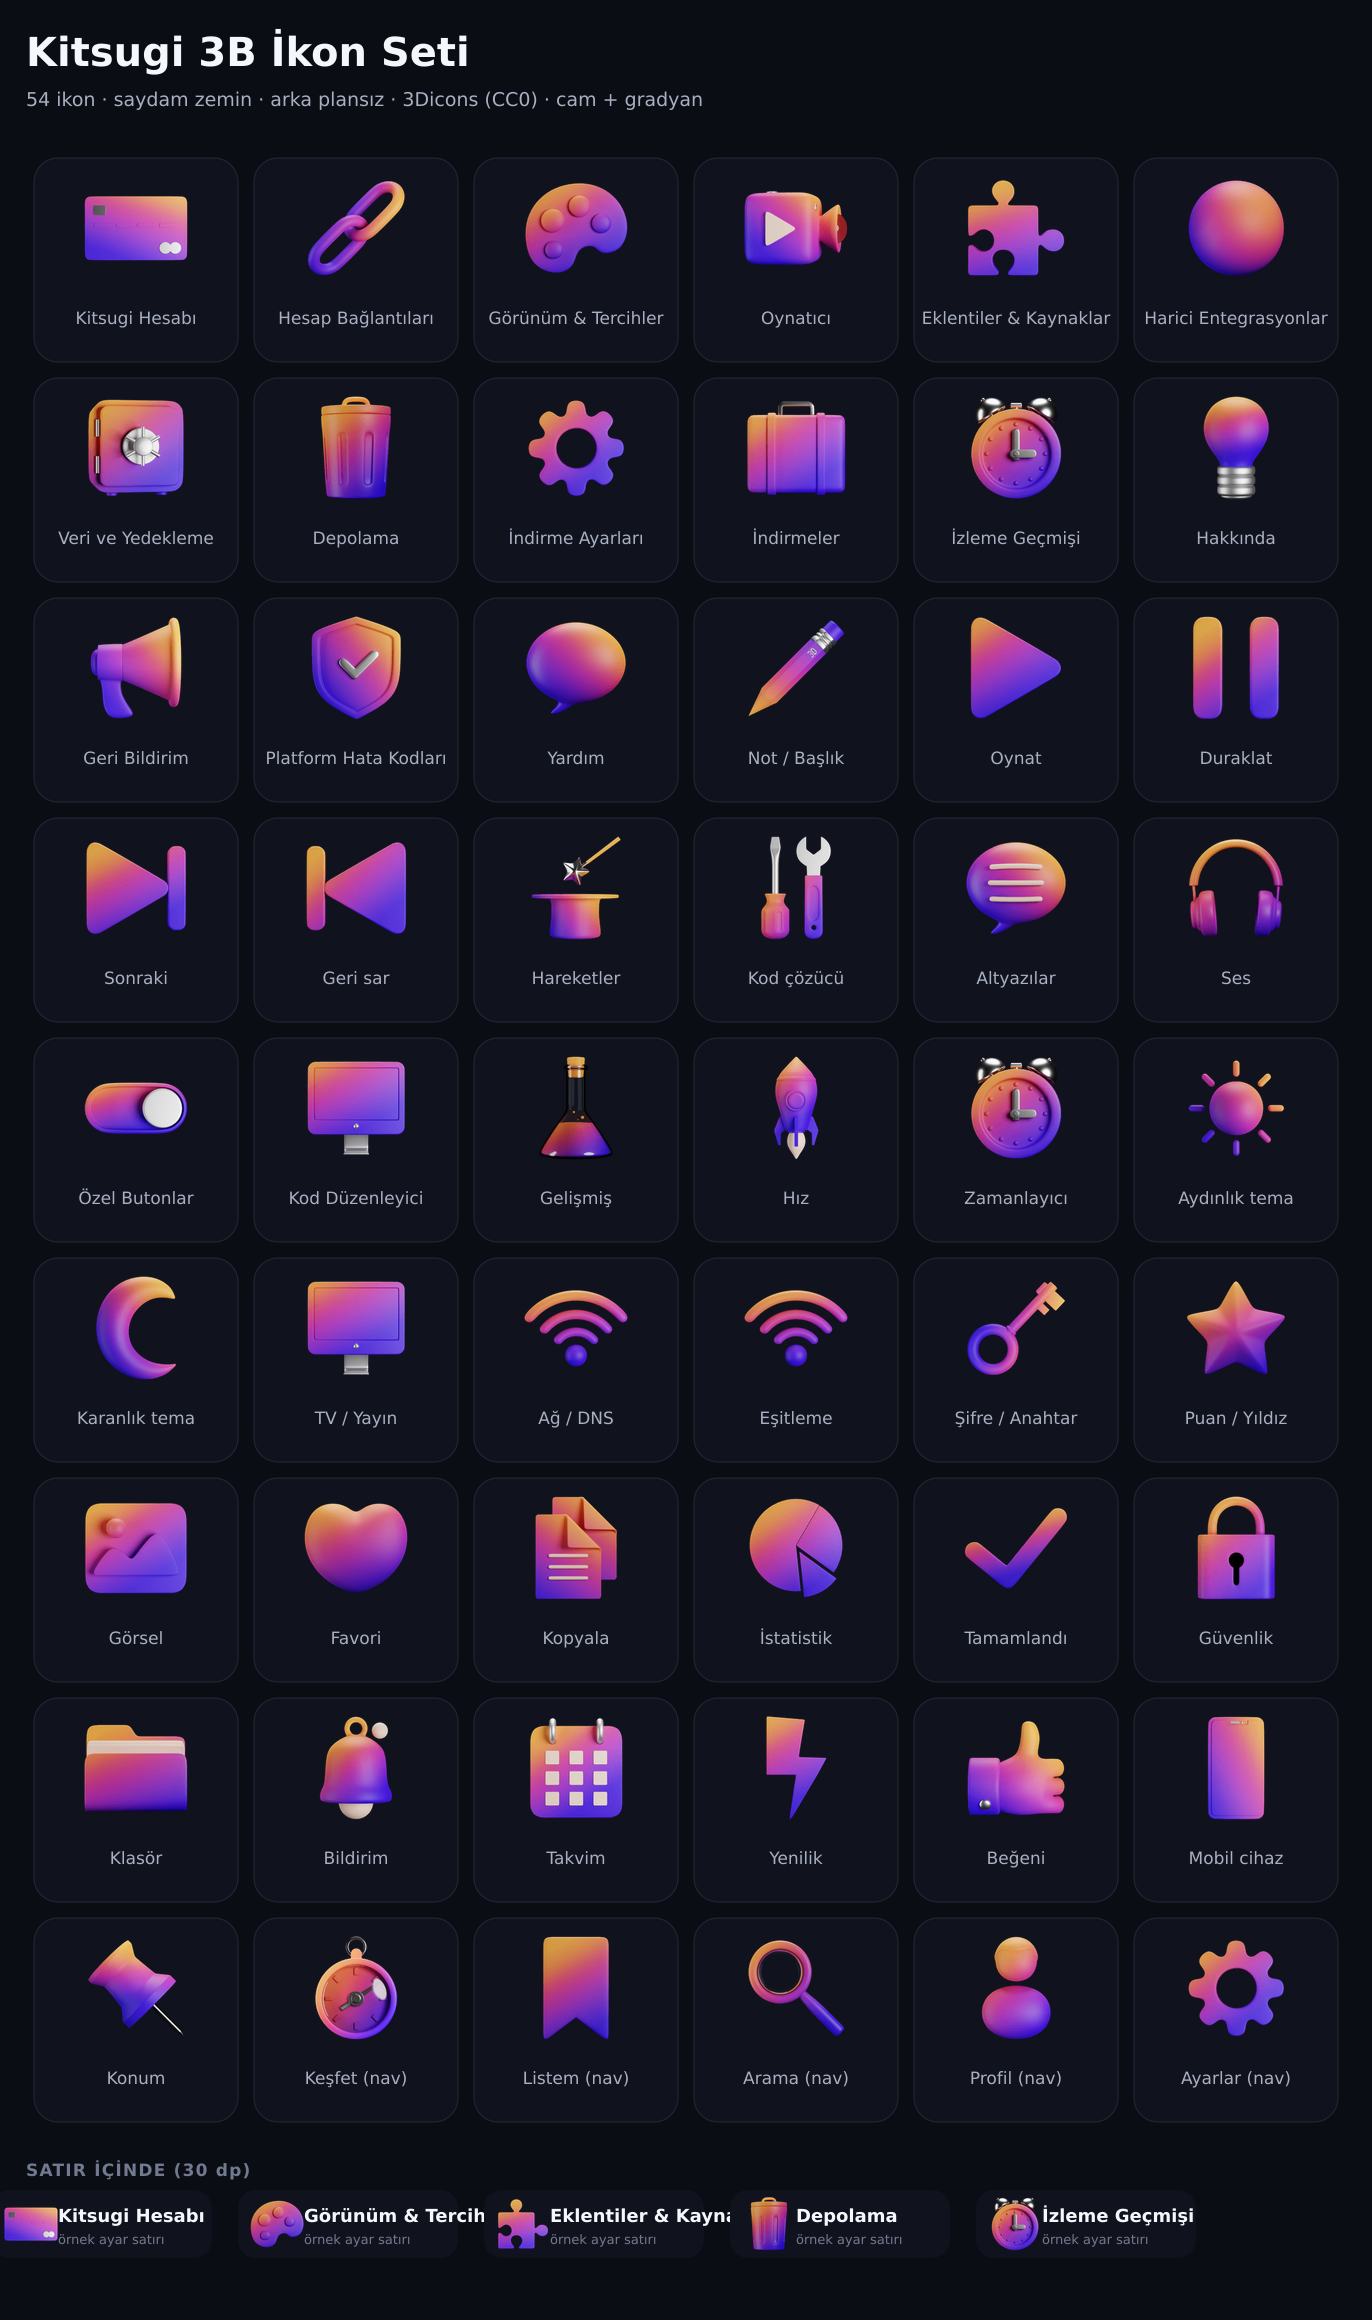
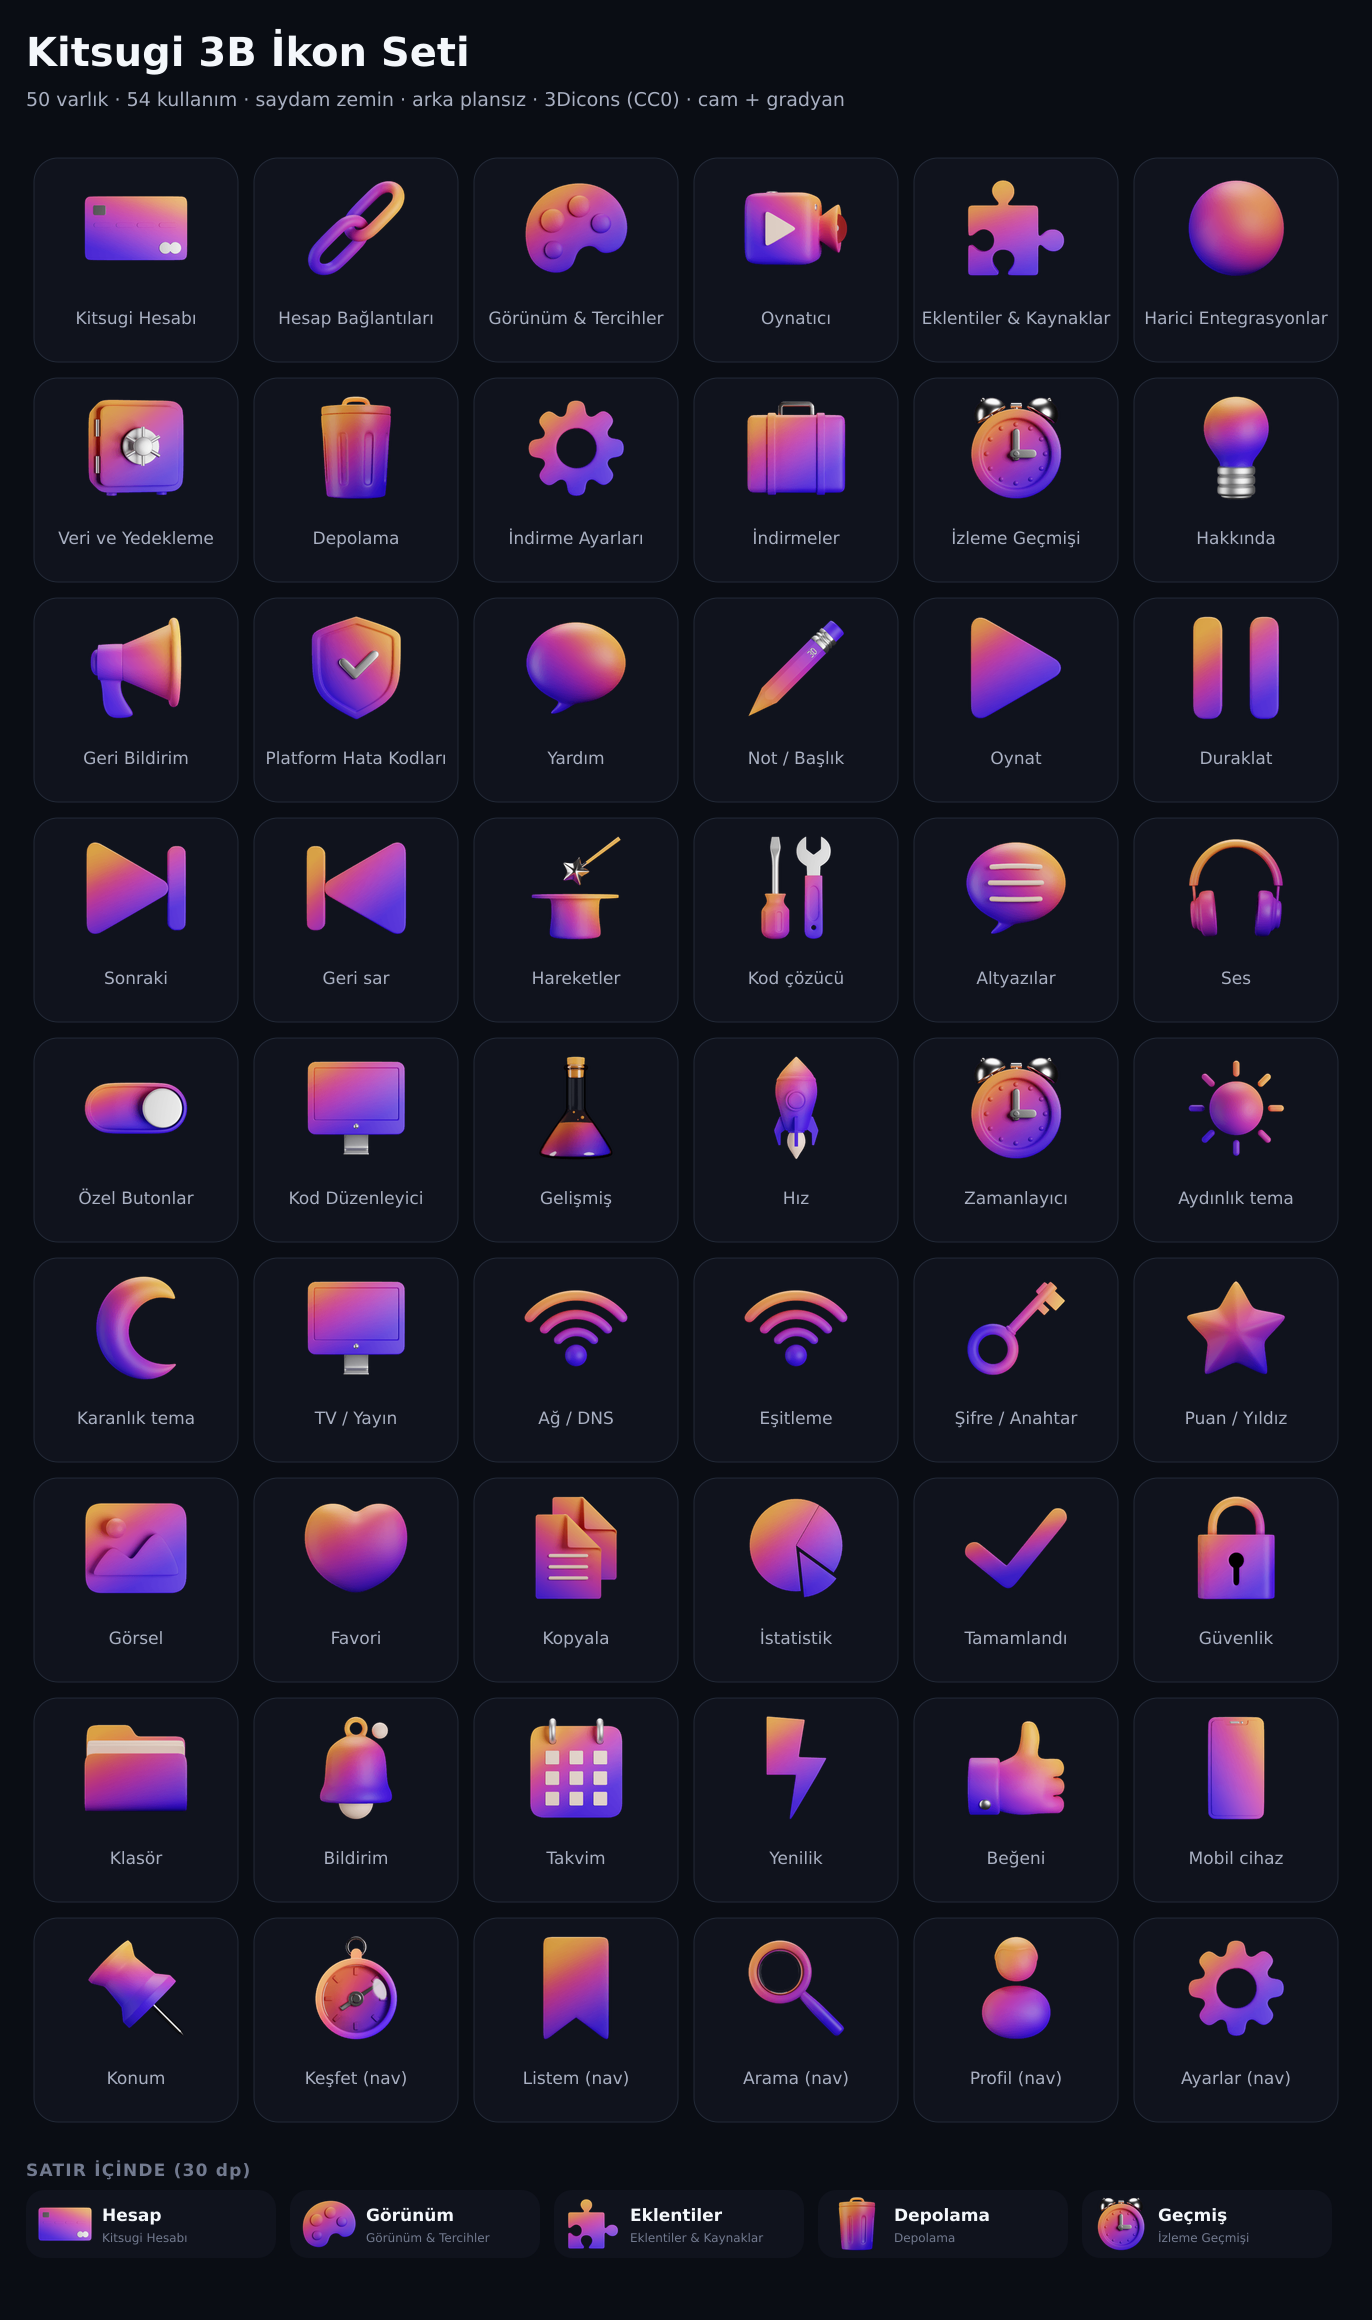
İkon önizleme sayfası: satır içi örnek şeridi hizalandı, varlık/kullanım sayacı eklendi

diff --git a/tools/iconpack/sheet.js b/tools/iconpack/sheet.js
@@ -35,7 +35,8 @@ const fileFor = (key) => path.join(ICON_DIR, 'ic_kitsugi_' + (KEYMAP[key] || key
   const parts = [];
   const comps = [];
   parts.push(`<text x="${PAD}" y="66" fill="${T1}" font-size="40" font-weight="700" font-family="DejaVu Sans, sans-serif">Kitsugi 3B İkon Seti</text>`);
-  parts.push(`<text x="${PAD}" y="106" fill="${T2}" font-size="19" font-family="DejaVu Sans, sans-serif">${ORDER.length} ikon · saydam zemin · arka plansız · 3Dicons (CC0) · cam + gradyan</text>`);
+  const assetCount = new Set(Object.values(KEYMAP).map((v) => v.replace(/-/g, '_'))).size;
+  parts.push(`<text x="${PAD}" y="106" fill="${T2}" font-size="19" font-family="DejaVu Sans, sans-serif">${assetCount} varlık · ${ORDER.length} kullanım · saydam zemin · arka plansız · 3Dicons (CC0) · cam + gradyan</text>`);
 
   ORDER.forEach((key, i) => {
     const x = PAD + (i % COLS) * CELL;
@@ -47,13 +48,18 @@ const fileFor = (key) => path.join(ICON_DIR, 'ic_kitsugi_' + (KEYMAP[key] || key
 
   const fy = GRID_TOP + ROWS * CELL + 20;
   parts.push(`<text x="${PAD}" y="${fy + 26}" fill="${T3}" font-size="17" font-weight="700" letter-spacing="1.2" font-family="DejaVu Sans, sans-serif">SATIR İÇİNDE (30 dp)</text>`);
-  ['account', 'palette', 'extensions', 'storage', 'history'].forEach((key, i) => {
-    const cx = PAD + 116 + i * 246;
+  const cellW = Math.floor((W - PAD * 2) / 5);
+  const STRIP = [
+    ['account', 'Hesap'], ['palette', 'Görünüm'], ['extensions', 'Eklentiler'],
+    ['storage', 'Depolama'], ['history', 'Geçmiş'],
+  ];
+  STRIP.forEach(([key, short], i) => {
+    const x = PAD + i * cellW;
     const cy = fy + 74;
-    parts.push(`<rect x="${cx - 150}" y="${cy - 34}" width="220" height="68" rx="18" fill="${CELL_BG}"/>`);
-    parts.push(`<text x="${cx - 84}" y="${cy - 2}" fill="${T1}" font-size="18" font-weight="600" font-family="DejaVu Sans, sans-serif">${esc(LABELS[key])}</text>`);
-    parts.push(`<text x="${cx - 84}" y="${cy + 20}" fill="${T3}" font-size="13" font-family="DejaVu Sans, sans-serif">örnek ayar satırı</text>`);
-    comps.push({ file: fileFor(key), left: cx - 138, top: Math.round(cy - 27), size: 54 });
+    parts.push(`<rect x="${x}" y="${cy - 34}" width="${cellW - 14}" height="68" rx="18" fill="${CELL_BG}"/>`);
+    parts.push(`<text x="${x + 76}" y="${cy - 3}" fill="${T1}" font-size="17" font-weight="600" font-family="DejaVu Sans, sans-serif">${esc(short)}</text>`);
+    parts.push(`<text x="${x + 76}" y="${cy + 18}" fill="${T3}" font-size="12" font-family="DejaVu Sans, sans-serif">${esc(LABELS[key])}</text>`);
+    comps.push({ file: fileFor(key), left: x + 12, top: Math.round(cy - 27), size: 54 });
   });
 
   const svg = `<svg xmlns="http://www.w3.org/2000/svg" width="${W}" height="${H}">${parts.join('\n')}</svg>`;
